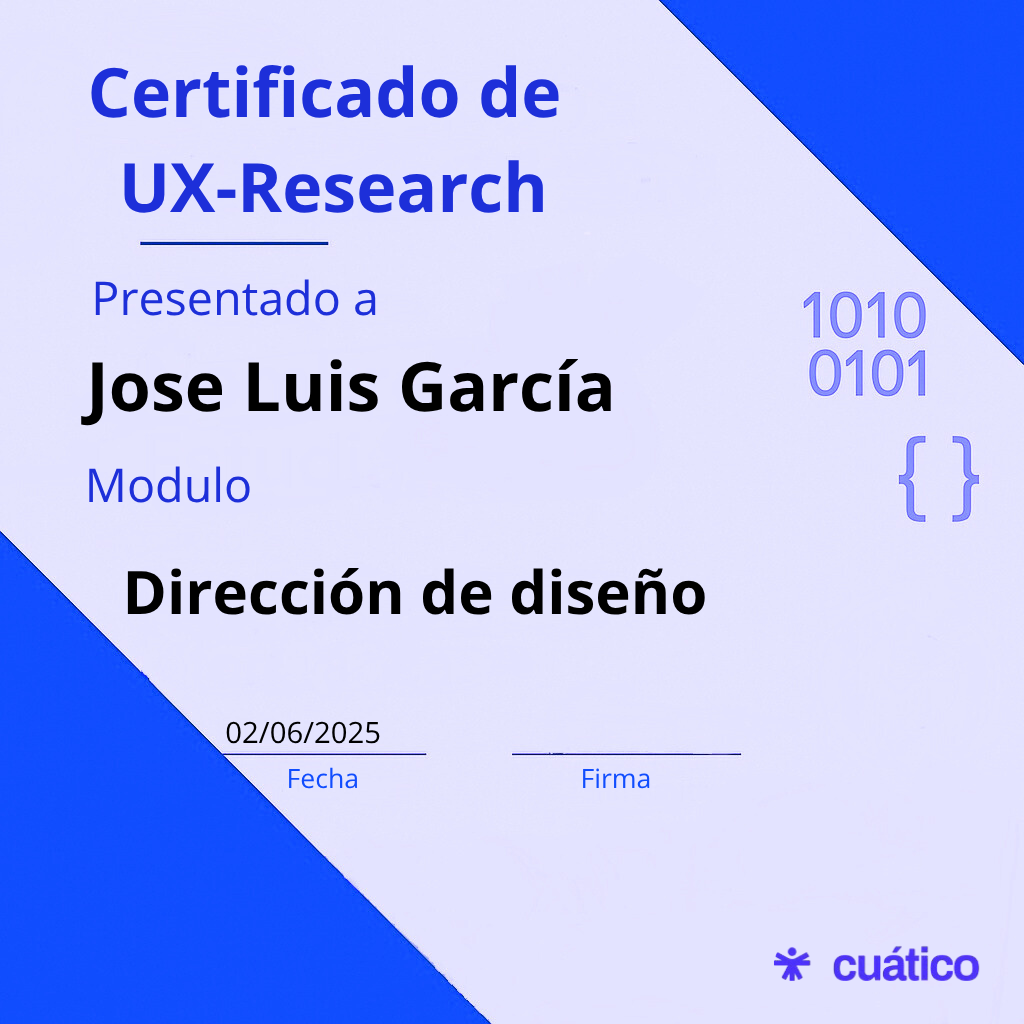
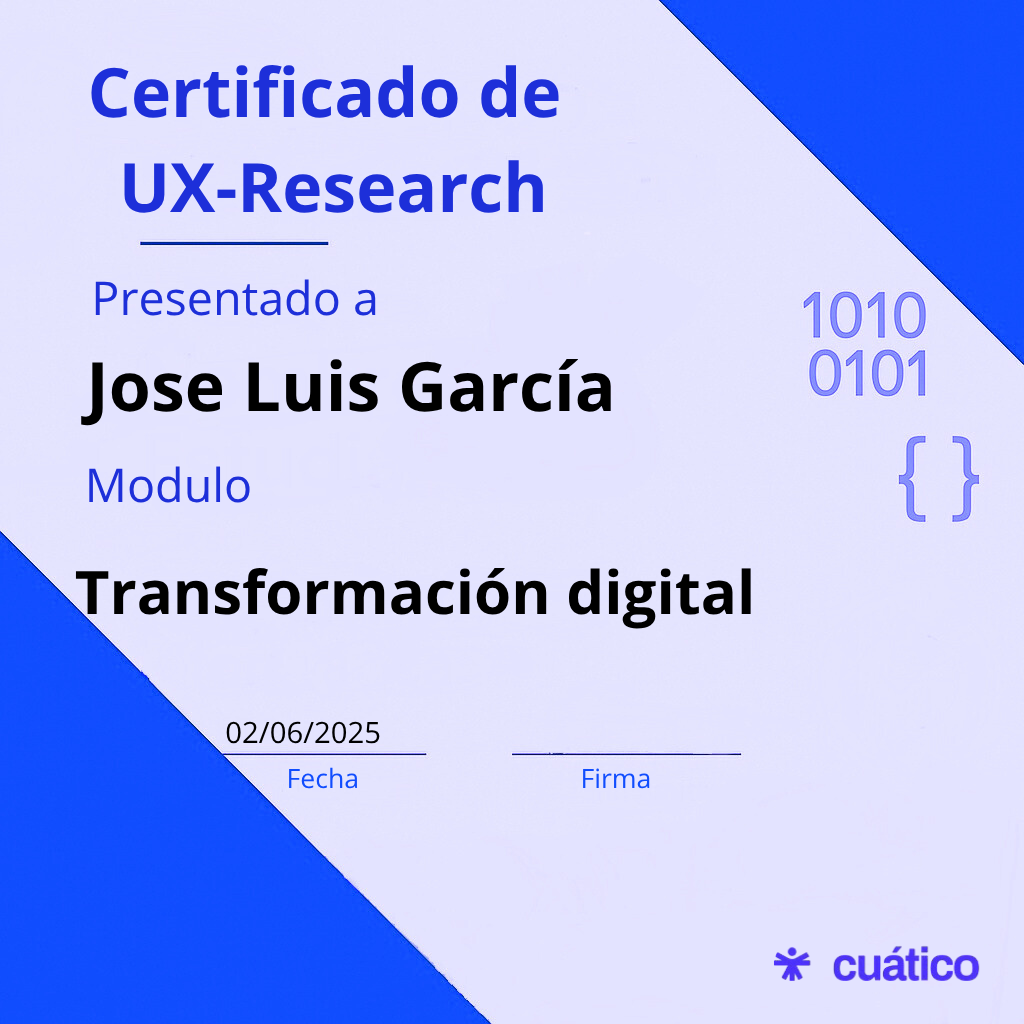
Certificados

Changed region(s): [[0.0625, 0.5312, 0.75, 0.625]]

diff --git a/cuatico-frontend/src/app/core/certificate/certificate.html b/cuatico-frontend/src/app/core/certificate/certificate.html
@@ -1,110 +1,97 @@
 <div class="min-h-[90vh] flex flex-col bg-gray-50">
-  <div class="flex-1 overflow-auto">
-    <div class="px-4 sm:px-8 py-6 sm:py-10 max-w-7xl mx-auto">
-      <app-header [titulo]="'CERTIFICADOS'"
-        [iconoD]="'M7.864 4.243A7.5 7.5 0 0 1 19.5 10.5c0 2.92-.556 5.709-1.568 8.268M5.742 6.364A7.465 7.465 0 0 0 4.5 10.5a7.464 7.464 0 0 1-1.15 3.993m1.989 3.559A11.209 11.209 0 0 0 8.25 10.5a3.75 3.75 0 1 1 7.5 0c0 .527-.021 1.049-.064 1.565M12 10.5a14.94 14.94 0 0 1-3.6 9.75m6.633-4.596a18.666 18.666 0 0 1-2.485 5.33'">
-      </app-header>
+    <div class="flex-1 overflow-auto">
+        <div class="px-4 sm:px-8 py-6 sm:py-10 max-w-7xl mx-auto">
+            <app-header [titulo]="'CERTIFICADOS'"
+                [iconoD]="'M7.864 4.243A7.5 7.5 0 0 1 19.5 10.5c0 2.92-.556 5.709-1.568 8.268M5.742 6.364A7.465 7.465 0 0 0 4.5 10.5a7.464 7.464 0 0 1-1.15 3.993m1.989 3.559A11.209 11.209 0 0 0 8.25 10.5a3.75 3.75 0 1 1 7.5 0c0 .527-.021 1.049-.064 1.565M12 10.5a14.94 14.94 0 0 1-3.6 9.75m6.633-4.596a18.666 18.666 0 0 1-2.485 5.33'">
+            </app-header>
 
-      <div class="flex flex-row gap-8">
-        <!-- Descargas multiples -->
-        <div class="order-2 w-32 max-w-xs flex flex-col items-start gap-2">
-          <p class="font-bold mb-2">Lista de descargas</p>
-          <app-label-input 
-            type="checkbox"
-            [label]="'Direccion de producto'"
-            [(model)]="selecionado1"
-            class="mb-1"
-          ></app-label-input>
-          <app-label-input 
-            type="checkbox"
-            [label]="'Direccion de diseño'"
-            [(model)]="selecionado2"
-            class="mb-1"
-          ></app-label-input>
-               <app-label-input 
-            type="checkbox"
-            [label]="'Direccion de desarrollo'"
-            [(model)]="selecionado3"
-            class="mb-1"
-          ></app-label-input>
-          <button
-            class="bg-indigo-600 text-white px-3 py-1 rounded hover:bg-indigo-700 transition mt-2"
-            (click)="descargarSelecionados()">
-            Descargar seleccionados
-          </button>
+            <div class="flex flex-row gap-8">
+                <!-- Descargas multiples con componente label-input del core -->
+                <div class="order-2 w-32 max-w-xs flex flex-col items-start gap-2">
+                    <p class="font-bold mb-2">Lista de descargas</p>
+                    <app-label-input type="checkbox" [label]="'Direccion de producto'" [(model)]="selecionado1"
+                        class="mb-1"></app-label-input>
+                    <app-label-input type="checkbox" [label]="'Direccion de diseño'" [(model)]="selecionado2"
+                        class="mb-1"></app-label-input>
+                    <app-label-input type="checkbox" [label]="'Direccion de desarrollo'" [(model)]="selecionado3"
+                        class="mb-1"></app-label-input>
+                    <button class="bg-indigo-600 text-white px-3 py-1 rounded hover:bg-indigo-700 transition mt-2"
+                        (click)="descargarSelecionados()">
+                        Descargar seleccionados
+                    </button>
+                </div>
+
+                <!-- Grid de certificados -->
+                <div class="flex-1">
+                    <div class="grid grid-cols-3">
+                        <app-card tipo="certificado" (descargar)="descargarCertificado()">
+                            <div class="rounded-xl p-4 text-center font-bold text-indigo-600 py-0">
+                                <img src="assets/certificado1.png" alt="Certificado"
+                                    class="mx-auto mb-2 w-90 h-48 object-contain cursor-pointer"
+                                    onclick="document.getElementById('modal').style.display='block'" />
+                                Diseño de experiencia
+                            </div>
+                            <!-- Modal numero 1 para card numero 1 -->
+                            <div id="modal"
+                                style="display:none; position:fixed; z-index:50; left:0; top:0; width:100vw; height:100vh; background:rgba(0,0,0,0.7);">
+                                <span
+                                    style="position:absolute; top:80px; right:80px; font-size:40px; color:white; cursor:pointer;"
+                                    onclick="document.getElementById('modal').style.display='none'">&times;</span>
+                                <img src="assets/certificado1.png"
+                                    style="display:block; margin:80px auto; max-width:90vw; max-height:80vh; border-radius:16px; box-shadow:0 0 20px #000;" />
+                            </div>
+                            <div class="text-center text-sm text-gray-500 py-0">
+                                <p>Certificado de Diseño de experiencia </p>
+                            </div>
+                        </app-card>
+
+                        <app-card tipo="certificado" (descargar)="descargarCertificado()">
+                            <div class="rounded-xl p-4 text-center font-bold text-indigo-600 py-0">
+                                <img src="assets/certificado2.png" alt="Certificado"
+                                    class="mx-auto mb-2 w-90 h-48 object-contain cursor-pointer"
+                                    onclick="document.getElementById('modal2').style.display='block'" />
+                                Trasnformacion digital
+                            </div>
+                            <!-- Modal numero 2 para card numero 2-->
+                            <div id="modal2"
+                                style="display:none; position:fixed; z-index:50; left:0; top:0; width:100vw; height:100vh; background:rgba(0,0,0,0.7);">
+                                <span
+                                    style="position:absolute; top:80px; right:80px; font-size:40px; color:white; cursor:pointer;"
+                                    onclick="document.getElementById('modal2').style.display='none'">&times;</span>
+                                <img src="assets/certificado2.png"
+                                    style="display:block; margin:80px auto; max-width:90vw; max-height:80vh; border-radius:16px; box-shadow:0 0 20px #000;" />
+                            </div>
+                            <div class="text-center text-sm text-gray-500 py-0">
+                                <p>Certificado de Trasnformacion digital</p>
+                            </div>
+                        </app-card>
+
+
+                        <app-card tipo="certificado" (descargar)="descargarCertificado()">
+                            <div class="rounded-xl p-4 text-center font-bold text-indigo-600 py-0">
+                                <img src="assets/certificado3.png" alt="Certificado"
+                                    class="mx-auto mb-2 w-90 h-48 object-contain cursor-pointer"
+                                    onclick="document.getElementById('modal3').style.display='block'" />
+                                Dirección de Producto
+                            </div>
+                            <!-- Modal numero 3 para card numero 3-->
+                            <div id="modal3"
+                                style="display:none; position:fixed; z-index:50; left:0; top:0; width:100vw; height:100vh; background:rgba(0,0,0,0.7);">
+                                <span
+                                    style="position:absolute; top:80px; right:80px; font-size:40px; color:white; cursor:pointer;"
+                                    onclick="document.getElementById('modal3').style.display='none'">&times;</span>
+                                <img src="assets/certificado3.png"
+                                    style="display:block; margin:80px auto; max-width:90vw; max-height:80vh; border-radius:16px; box-shadow:0 0 20px #000;" />
+                            </div>
+                            <div class="text-center text-sm text-gray-500 py-0">
+                                <p>Certificado de Dirección de Producto</p>
+                            </div>
+                        </app-card>
+
+
+
+                    </div>
+                </div>
+            </div>
         </div>
-
-        <!-- Grid de certificados -->
-        <div class="flex-1">
-          <div class="grid grid-cols-3">
-            <app-card tipo="certificado" (descargar)="descargarCertificado()">
-              <div class="rounded-xl p-4 text-center font-bold text-indigo-600 py-0">
-                <img src="assets/certificado.png" alt="Certificado"
-                  class="mx-auto mb-2 w-90 h-48 object-contain cursor-pointer"
-                  onclick="document.getElementById('modal').style.display='block'" />
-                Dirección de producto
-              </div>
-              <!-- Modal y demás contenido... -->
-              <div id="modal"
-                style="display:none; position:fixed; z-index:50; left:0; top:0; width:100vw; height:100vh; background:rgba(0,0,0,0.7);">
-                <span
-                  style="position:absolute; top:80px; right:80px; font-size:40px; color:white; cursor:pointer;"
-                  onclick="document.getElementById('modal').style.display='none'">&times;</span>
-                <img src="assets/certificado.png"
-                  style="display:block; margin:80px auto; max-width:90vw; max-height:80vh; border-radius:16px; box-shadow:0 0 20px #000;" />
-              </div>
-              <div class="text-center text-sm text-gray-500 py-0">
-                <p>Certificado de Dirección de Producto</p>
-              </div>
-            </app-card>
-
-            <app-card tipo="certificado" (descargar)="descargarCertificado()">
-              <div class="rounded-xl p-4 text-center font-bold text-indigo-600 py-0">
-                <img src="assets/certificado2.png" alt="Certificado"
-                  class="mx-auto mb-2 w-90 h-48 object-contain cursor-pointer"
-                  onclick="document.getElementById('modal2').style.display='block'" />
-                Dirección de diseño
-              </div>
-              <!-- Modal y demás contenido... -->
-              <div id="modal2"
-                style="display:none; position:fixed; z-index:50; left:0; top:0; width:100vw; height:100vh; background:rgba(0,0,0,0.7);">
-                <span
-                  style="position:absolute; top:80px; right:80px; font-size:40px; color:white; cursor:pointer;"
-                  onclick="document.getElementById('modal2').style.display='none'">&times;</span>
-                <img src="assets/certificado2.png"
-                  style="display:block; margin:80px auto; max-width:90vw; max-height:80vh; border-radius:16px; box-shadow:0 0 20px #000;" />
-              </div>
-              <div class="text-center text-sm text-gray-500 py-0">
-                <p>Certificado de Dirección de Diseño</p>
-              </div>
-            </app-card>
-
-        
-            <app-card tipo="certificado" (descargar)="descargarCertificado()">
-              <div class="rounded-xl p-4 text-center font-bold text-indigo-600 py-0">
-                <img src="assets/certificado.png" alt="Certificado"
-                  class="mx-auto mb-2 w-90 h-48 object-contain cursor-pointer"
-                  onclick="document.getElementById('modal').style.display='block'" />
-                Dirección de Desarrollo
-              </div>
-              <!-- Modal y demás contenido... -->
-              <div id="modal"
-                style="display:none; position:fixed; z-index:50; left:0; top:0; width:100vw; height:100vh; background:rgba(0,0,0,0.7);">
-                <span
-                  style="position:absolute; top:80px; right:80px; font-size:40px; color:white; cursor:pointer;"
-                  onclick="document.getElementById('modal').style.display='none'">&times;</span>
-                <img src="assets/certificado.png"
-                  style="display:block; margin:80px auto; max-width:90vw; max-height:80vh; border-radius:16px; box-shadow:0 0 20px #000;" />
-              </div>
-              <div class="text-center text-sm text-gray-500 py-0">
-                <p>Certificado de Dirección de Desarrollo</p>
-              </div>
-            </app-card>
-
-
-
-          </div>
-        </div>
-      </div>
     </div>
-</div>

diff --git a/cuatico-frontend/src/app/core/certificate/certificate.ts b/cuatico-frontend/src/app/core/certificate/certificate.ts
@@ -17,8 +17,8 @@ export class Certificate {
   selecionado3= false;
     descargarSelecionados(){
     const selecionados = [];
-    if (this.selecionado1) selecionados.push('Direccion de producto');
-    if (this.selecionado2) selecionados.push('Direcion de diseño');
+    if (this.selecionado1) selecionados.push('Diseño de experiencia ');
+    if (this.selecionado2) selecionados.push('Transformación digital');
     if (this.selecionado3) selecionados.push('Direccion de desarrollo');
     if (selecionados.length === 0) { 
       alert('Por favor, selecciona al menos un certificado para descargar.');
@@ -26,7 +26,6 @@ export class Certificate {
     }
     alert(`Descargando certificados: ${selecionados.join(', ')}`);
   }
-
 
   descargarCertificado() {
     console.log('Descargando certificado...');
